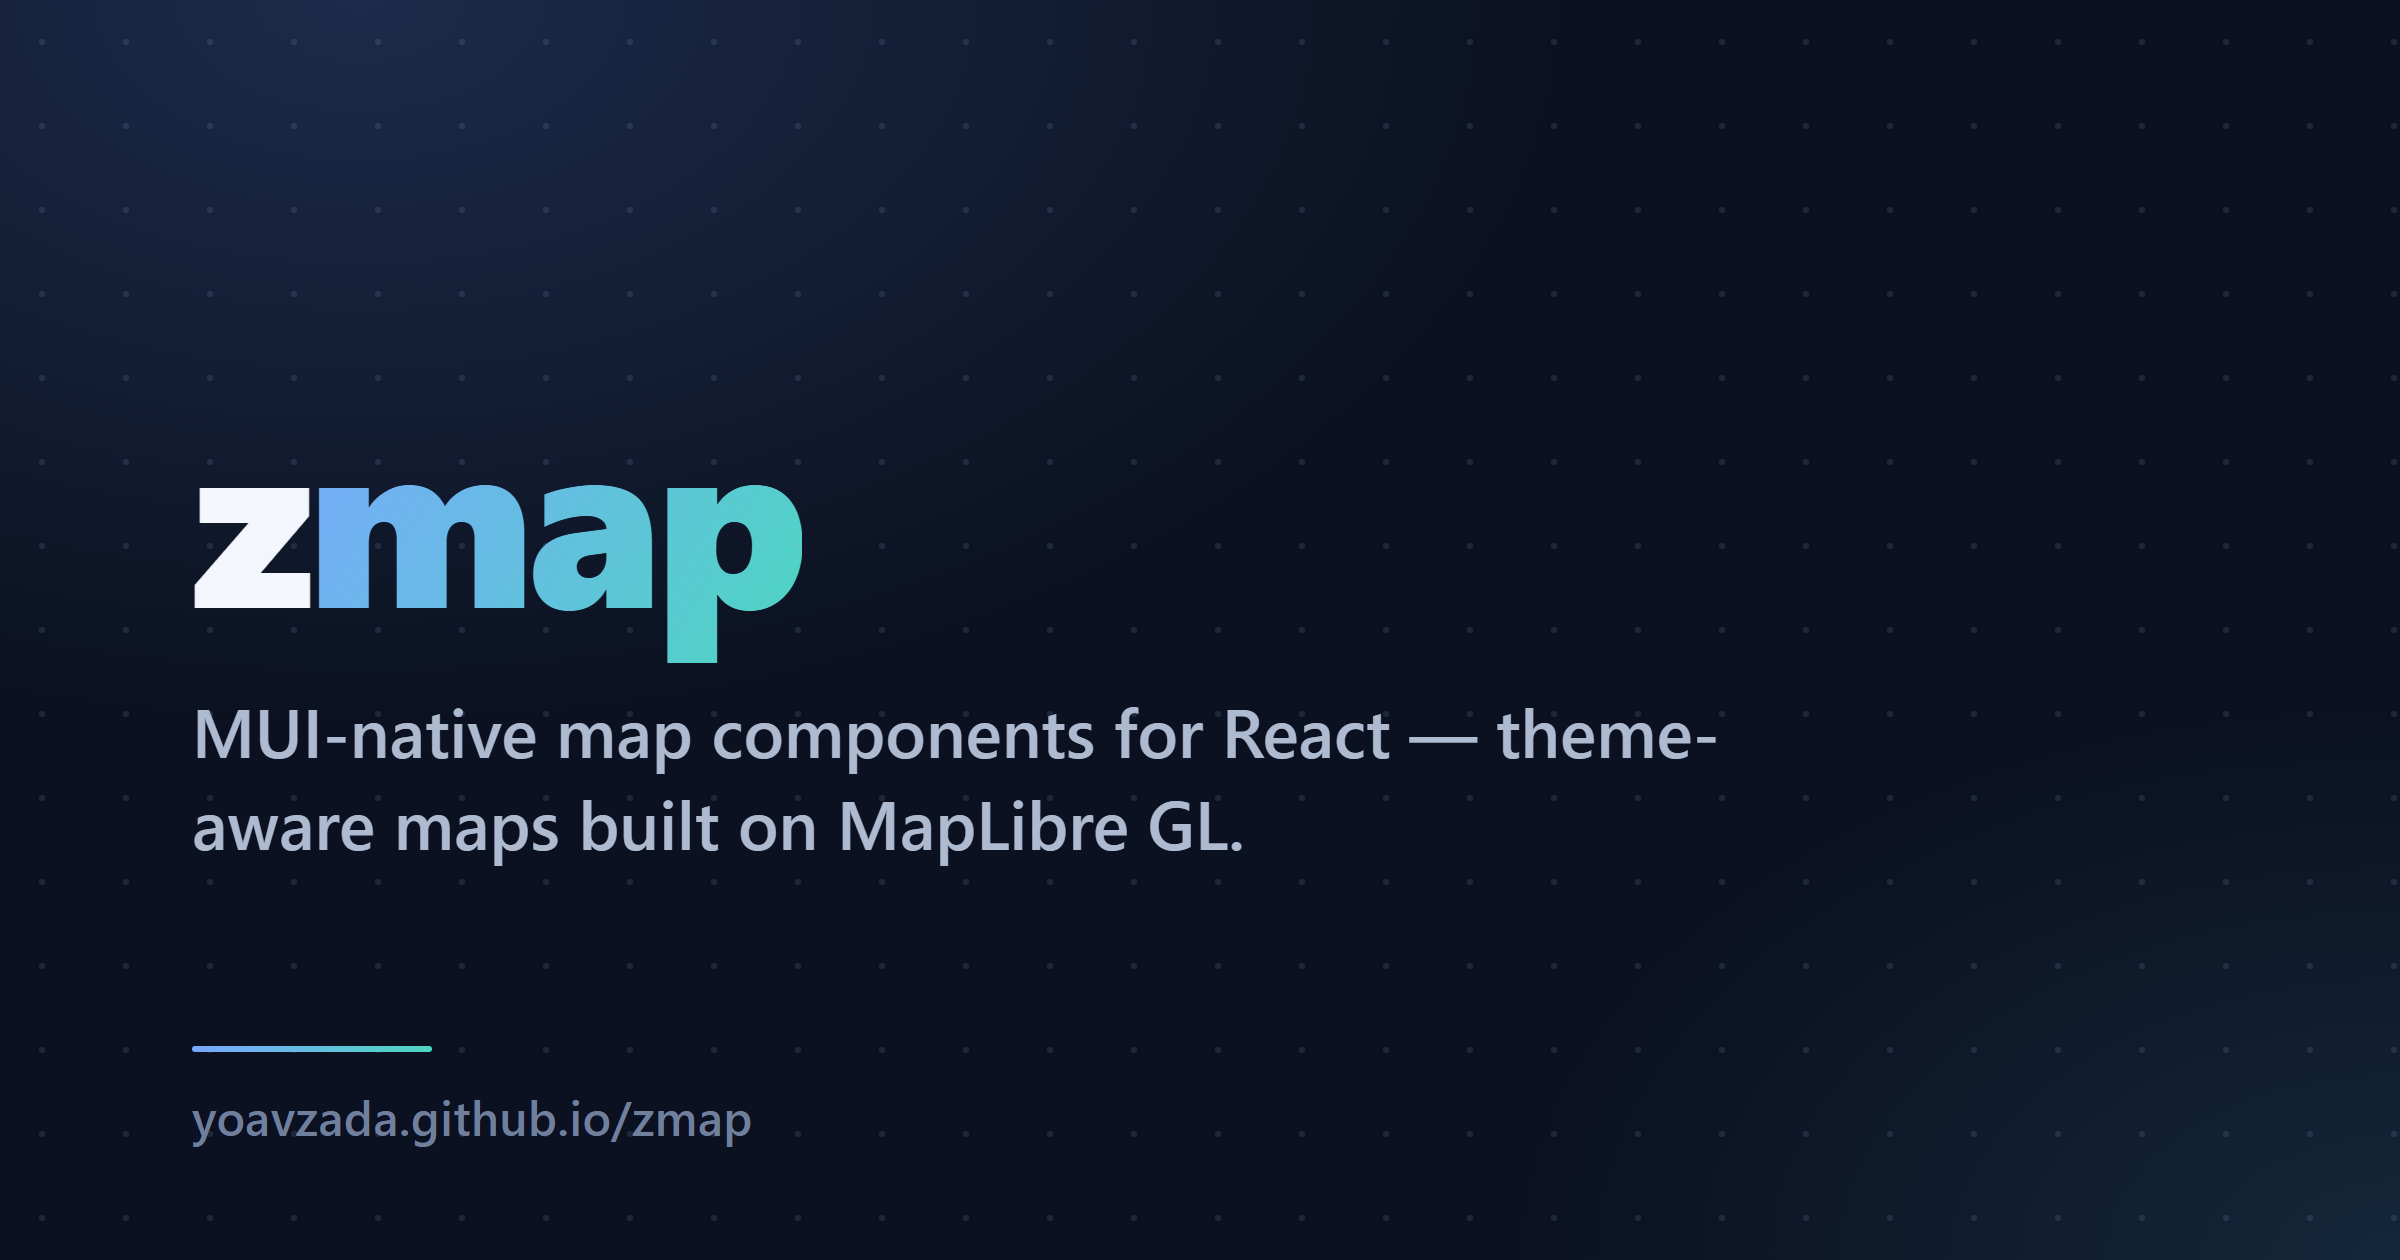
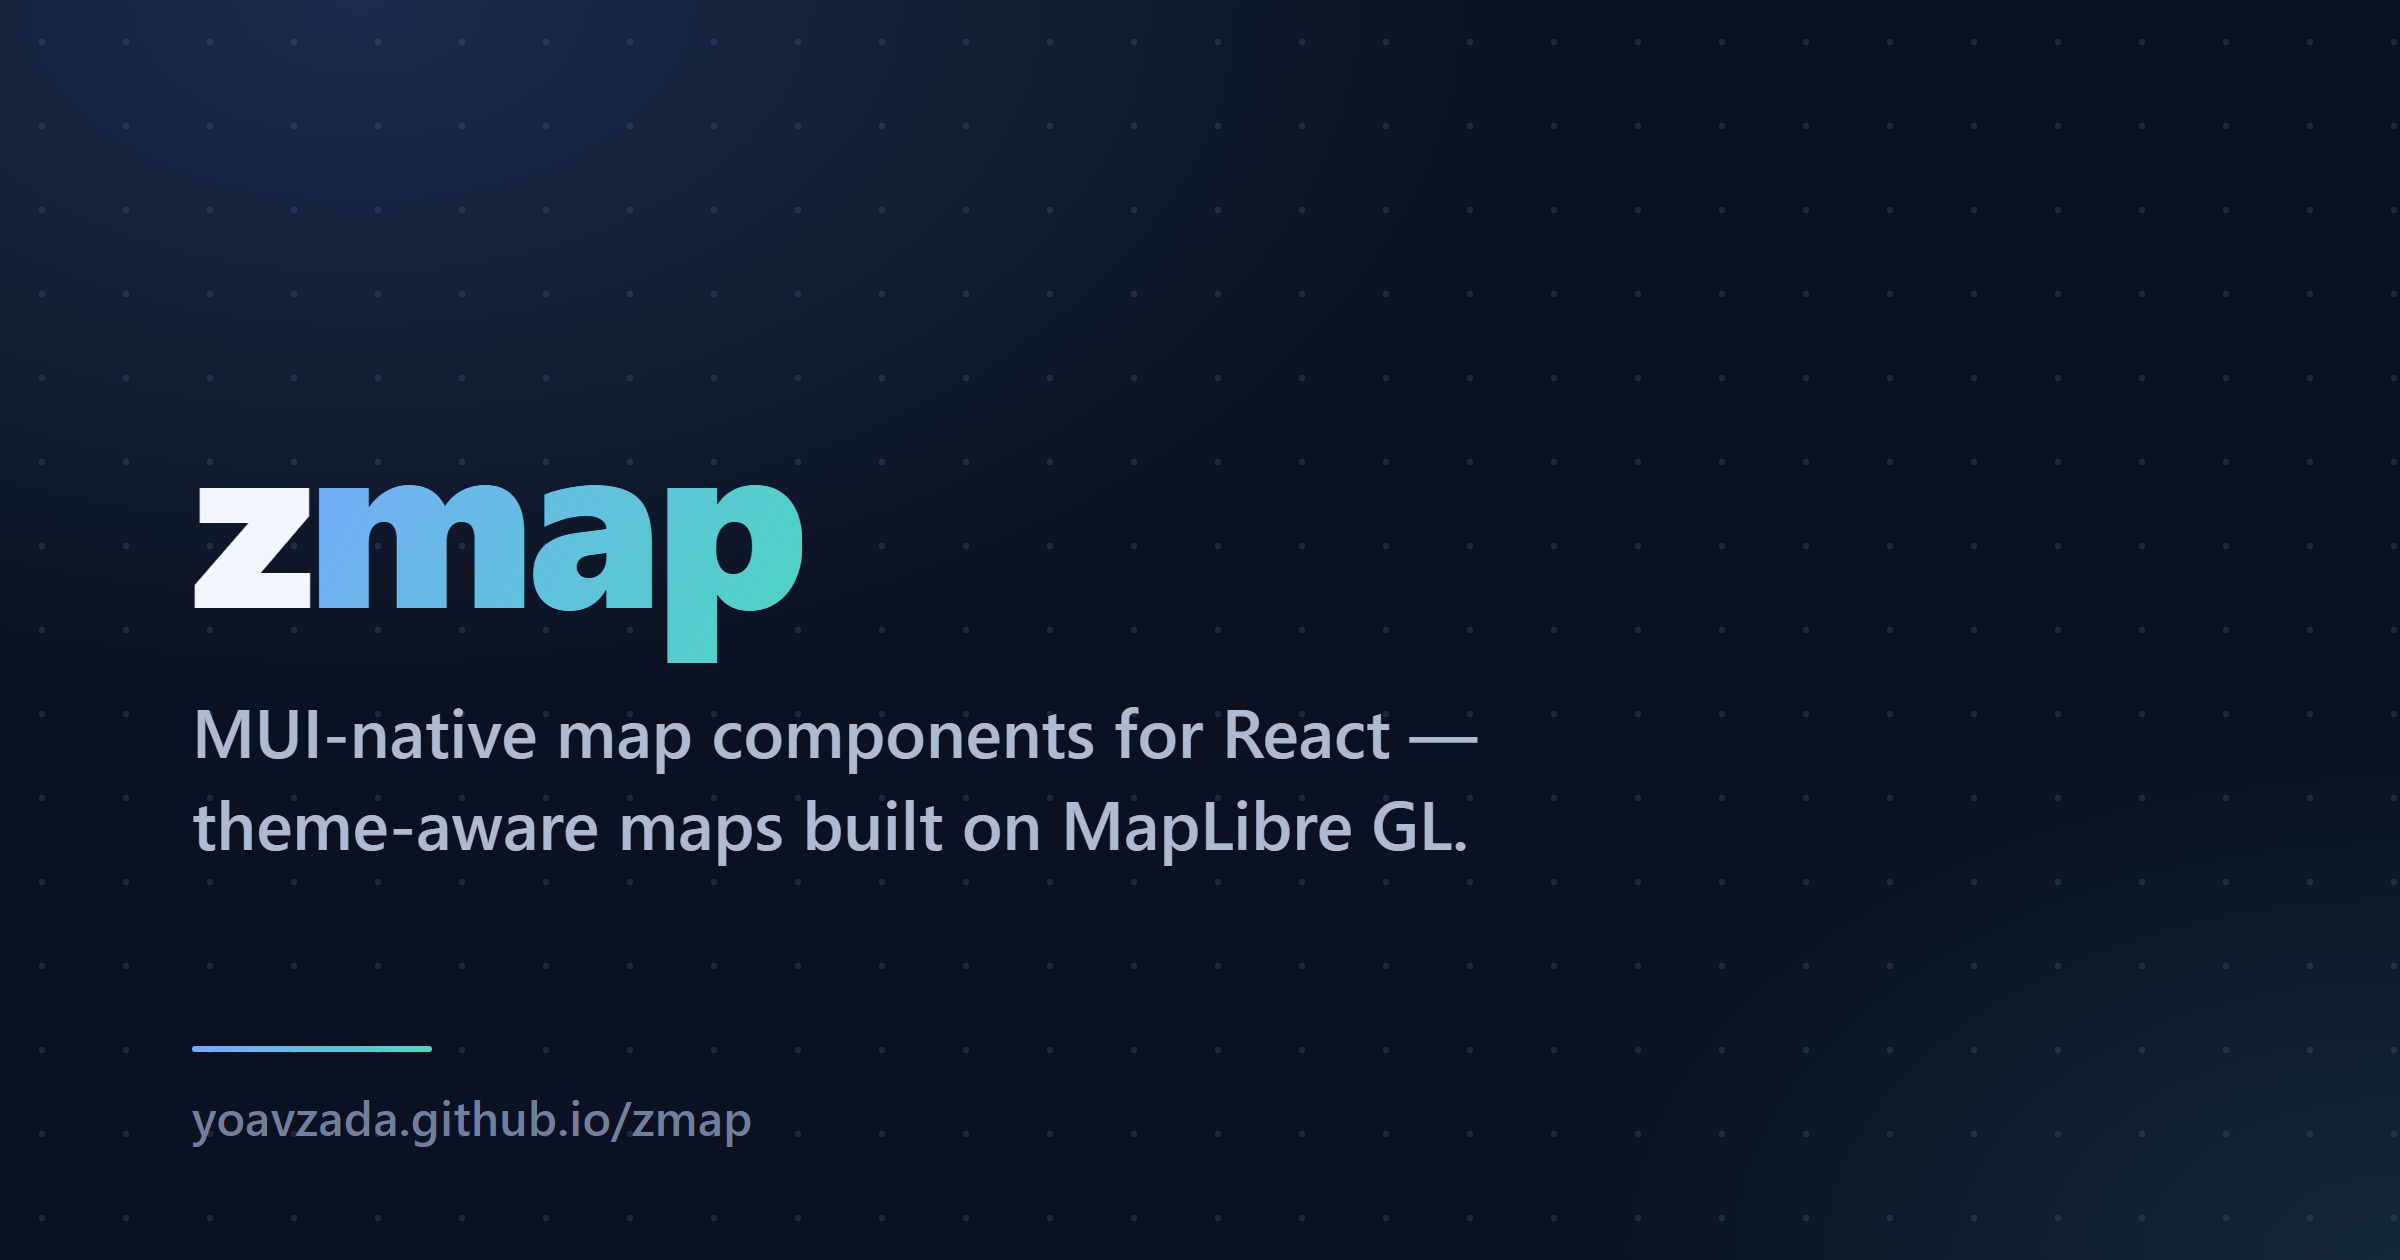
docs: clean tagline line break in OG card

Changed region(s): [[0.0625, 0.619, 0.625, 0.681], [0.625, 0.5571, 0.7188, 0.619]]

diff --git a/tools/e2e/scripts/og-template.html b/tools/e2e/scripts/og-template.html
@@ -35,7 +35,7 @@
         background-clip: text;
         color: transparent;
       }
-      .tagline { margin-top: 28px; font-size: 34px; font-weight: 500; color: #aebad0; max-width: 820px; line-height: 1.35; }
+      .tagline { margin-top: 28px; font-size: 34px; font-weight: 500; color: #aebad0; max-width: 1008px; line-height: 1.35; }
       .url { position: absolute; left: 96px; bottom: 56px; font-size: 24px; font-weight: 500; color: #6f7f9c; letter-spacing: 0.01em; }
       .rule { position: absolute; left: 96px; bottom: 104px; width: 120px; height: 3px; border-radius: 2px;
         background: linear-gradient(90deg, #7aa7ff, #4dd6c1); }
@@ -43,7 +43,7 @@
   </head>
   <body>
     <div class="wordmark">z<span class="accent">map</span></div>
-    <div class="tagline">MUI-native map components for React — theme-aware maps built on MapLibre&nbsp;GL.</div>
+    <div class="tagline">MUI-native map components for React —<br />theme-aware maps built on MapLibre&nbsp;GL.</div>
     <div class="rule"></div>
     <div class="url">yoavzada.github.io/zmap</div>
   </body>
